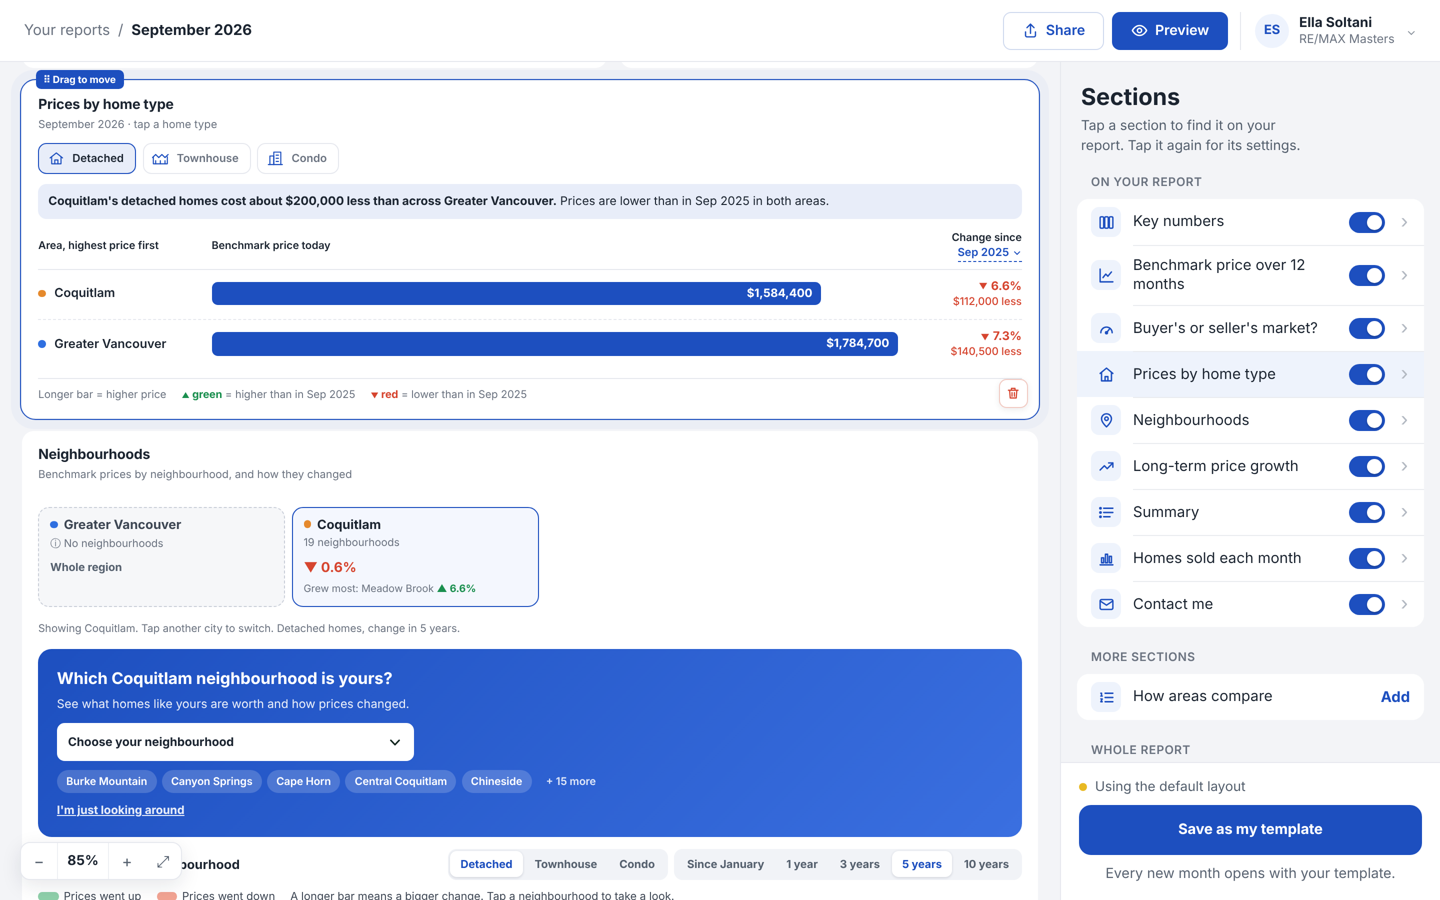
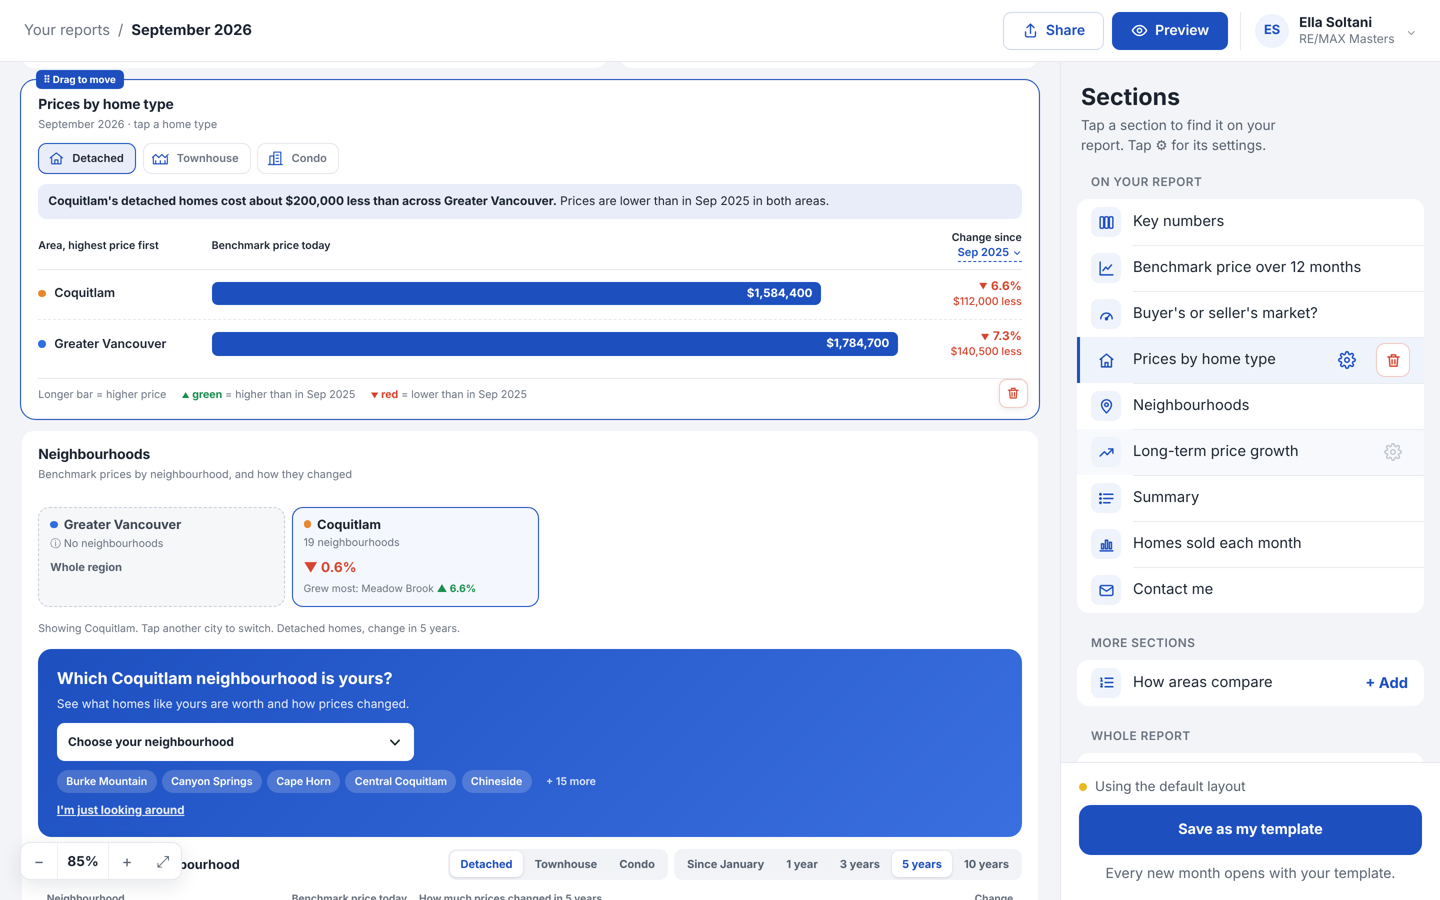
D6 Sections panel: tap to pick, gear and bin only on the picked row, settings open under it
Claude-Session: https://claude.ai/code/session_01GAE8No9vXW39qViYX3Zjiy

diff --git a/public/js/app.js b/public/js/app.js
@@ -332,7 +332,8 @@ const SIC = {
 const sic = (k) => `<span class="ipi" aria-hidden="true"><svg viewBox="0 0 24 24" width="17" height="17" fill="none" stroke="currentColor" stroke-width="2" stroke-linecap="round" stroke-linejoin="round">${SIC[k] || ''}</svg></span>`;
 const TYPE_NAME = { detached: 'Detached', townhome: 'Townhouse', condo: 'Condo' };
 const EYE = '<svg class="ico" width="17" height="17" viewBox="0 0 24 24" fill="none" stroke="currentColor" stroke-width="2" stroke-linecap="round" stroke-linejoin="round" aria-hidden="true"><path d="M2 12s3.5-7 10-7 10 7 10 7-3.5 7-10 7S2 12 2 12z"/><circle cx="12" cy="12" r="3"/></svg>';
-// Panel state: m 'list', 'section' (one section's settings page) or 'details'; k = the selected section.
+// Panel state: m 'list' or 'details'; k = the picked section; open = its settings are showing under its row (after tapping its gear).
+const GEAR = '<svg viewBox="0 0 24 24" width="18" height="18" fill="none" stroke="currentColor" stroke-width="2" stroke-linecap="round" stroke-linejoin="round" aria-hidden="true"><circle cx="12" cy="12" r="3"/><path d="M19.4 15a1.7 1.7 0 0 0 .3 1.8l.1.1a2 2 0 1 1-2.8 2.8l-.1-.1a1.7 1.7 0 0 0-1.8-.3 1.7 1.7 0 0 0-1 1.5V21a2 2 0 1 1-4 0v-.1a1.7 1.7 0 0 0-1.1-1.5 1.7 1.7 0 0 0-1.8.3l-.1.1a2 2 0 1 1-2.8-2.8l.1-.1a1.7 1.7 0 0 0 .3-1.8 1.7 1.7 0 0 0-1.5-1H3a2 2 0 1 1 0-4h.1a1.7 1.7 0 0 0 1.5-1.1 1.7 1.7 0 0 0-.3-1.8l-.1-.1a2 2 0 1 1 2.8-2.8l.1.1a1.7 1.7 0 0 0 1.8.3H9a1.7 1.7 0 0 0 1-1.5V3a2 2 0 1 1 4 0v.1a1.7 1.7 0 0 0 1 1.5 1.7 1.7 0 0 0 1.8-.3l.1-.1a2 2 0 1 1 2.8 2.8l-.1.1a1.7 1.7 0 0 0-.3 1.8V9a1.7 1.7 0 0 0 1.5 1H21a2 2 0 1 1 0 4h-.1a1.7 1.7 0 0 0-1.5 1z"/></svg>', BIN2 = '<svg viewBox="0 0 24 24" width="17" height="17" fill="none" stroke="currentColor" stroke-width="2" stroke-linecap="round" stroke-linejoin="round" aria-hidden="true"><path d="M4 7h16M10 11v6M14 11v6M6 7l1 13h10l1-13M9 7V4h6v3"/></svg>';
 let PS = { m: 'list', k: null }, ZOOM = 0.85, IGS = null;
 const cur = () => layoutOf(agent(), D);
 const snap = (L) => ({ sections: L.sections, known: SEC_IDS, areas: L.areas, agentTop: L.agentTop, clientAreas: L.clientAreas, view: L.view, conf: L.conf, months: L.months });
@@ -390,7 +391,7 @@ function preview() {
   const rp = $('#rp'); if (!rp) return;
   mountReport(rp, D, agent(), { embedded: true, ...(isPro() ? { edit: (patch) => setLayout(patch, false), selected: PS.k,
     // Clicking a section on the report opens its settings in the panel.
-    onSelect: (k) => { PS = { m: PS.m === 'section' && k ? 'section' : 'list', k: k || null }; drawPanel(); if (k && PS.m === 'list') panelTo(k); },
+    onSelect: (k) => { PS = { m: 'list', k: k || null, open: !!k && PS.open && PS.k === k }; drawPanel(); if (k) panelTo(k); },
     onAdd: showAddable, onRemove: (k) => removeSec(k) } : {}) });
   rp.style.zoom = ZOOM;
 }
@@ -481,7 +482,8 @@ function hoodsPanel(c, L) {
     <button type="button" class="btn wide ghost" data-plinks style="margin-top:8px">Personal links for clients</button>`;
 }
 // One section's settings page (the second tap), laid out like an iPhone settings page.
-function secPage(k, L) {
+// A section's settings, shown right under its row after its gear is tapped.
+function secSettings(k, L) {
   const c = L.conf[k] || {}, i = L.sections.indexOf(k), titled = !['numbers', 'contact'].includes(k), g = (label, body, foot) => `${label ? `<div class="ipl">${label}</div>` : ''}<div class="ipg">${body}</div>${foot ? `<p class="ipf">${foot}</p>` : ''}`;
   let what = '';
   if (k === 'hoods') what = g('', `<div class="ipad">${hoodsPanel(c, L)}</div>`);
@@ -493,9 +495,8 @@ function secPage(k, L) {
       + (USES_TYPES.includes(k) ? g('Home types', TYPE_KEYS.map((t) => { const on = !c.types || c.types.includes(t); return `<button type="button" class="ipr" data-ty="${t}" aria-pressed="${on}"><span class="ipn">${TYPE_NAME[t]}</span>${on ? '<span class="ipck" aria-hidden="true">✓</span>' : ''}</button>`; }).join('')) : ''); }
   const look = titled ? g('Title', `<label class="ipr"><input class="ipin" data-title value="${esc(c.title || '')}" placeholder="${esc(SEC[k].l)}" aria-label="Title"></label>${iptg('data-cf="sub"', 'Line under the title', c.sub !== false)}${k === 'market' ? iptg('data-cf="note"', 'One-line explanation', c.note !== false) : ''}`) : '';
   const size = PAIRABLE.includes(k) ? g('Size', `<div class="ipad"><div class="seg2"><button type="button" data-sz="half" aria-pressed="${c.size !== 'full'}">Half width</button><button type="button" data-sz="full" aria-pressed="${c.size === 'full'}">Full width</button></div></div>`, 'Half width sits next to another half-width section.') : '';
-  return `<button type="button" class="ipback" data-p="list">‹ Sections</button><h2 class="iph">${esc(c.title || SEC[k].l)}</h2><p class="ipsub">${esc(SEC[k].d)}. Updates by itself every month.</p>
-    ${what}${look}${size}${g('', `<button type="button" class="ipr ipb" data-mv="-1"${i ? '' : ' disabled'}>Move up</button><button type="button" class="ipr ipb" data-mv="1"${i < L.sections.length - 1 ? '' : ' disabled'}>Move down</button>`)}
-    ${g('', `<button type="button" class="ipr ipred" data-hide${L.sections.length > 1 ? '' : ' disabled'}>Remove from report</button>`)}`;
+  return `<div class="ipx">${what}${look}${size}${g('', `<button type="button" class="ipr ipb" data-mv="-1"${i ? '' : ' disabled'}>Move up</button><button type="button" class="ipr ipb" data-mv="1"${i < L.sections.length - 1 ? '' : ' disabled'}>Move down</button>`)}
+    <p class="ipf ipf0">Updates by itself every month.</p><button type="button" class="ipdone" data-done>Done</button></div>`;
 }
 // An iPhone-style switch row.
 const iptg = (attr, l, on) => `<label class="ipr"><span class="ipn">${l}</span><input type="checkbox" ${attr}${on ? ' checked' : ''}><span class="sw2" aria-hidden="true"></span></label>`;
@@ -525,15 +526,15 @@ function drawPanel() {
   } else if (!pro) {
     body = `${head('Sections')}<div class="lockbox"><span>With Pro you choose your areas and sections, move them around, and save your own template.</span><button type="button" class="btn sm" id="up4">Upgrade to Pro</button></div>`;
   } else {
-    if (PS.m === 'section' && !L.sections.includes(PS.k)) PS = { m: 'list', k: null };
+    if (!L.sections.includes(PS.k)) PS = { m: 'list', k: null, open: false };
     const off = SECTIONS.filter(([k]) => !L.sections.includes(k) && (k !== 'growth' || D.growth));
-    // First tap picks a section and scrolls the report to it; a second tap (or the ›) opens its settings page.
-    const row = (k) => { const nm = esc(L.conf[k]?.title || SEC[k].l);
-      return `<div class="ipr ipsec${PS.k === k ? ' sel' : ''}" draggable="true" data-sk="${k}" data-li="${k}" role="button" tabindex="0" title="Tap to find it on your report. Tap again for its settings. Drag to move it.">${sic(k)}<span class="ipn">${nm}</span>
-        <label class="swl" title="Show on your report"><input type="checkbox" data-on="${k}" checked${L.sections.length > 1 ? '' : ' disabled'} aria-label="Show ${nm} on your report"><span class="sw2" aria-hidden="true"></span></label><button type="button" class="ipgo" data-go2="${k}" aria-label="Settings for ${nm}">›</button></div>`; };
-    body = PS.m === 'section' ? secPage(PS.k, L) : `<h2 class="iph">Sections</h2><p class="ipsub">Tap a section to find it on your report. Tap it again for its settings.</p>
+    // Tap a row: it is picked and the report scrolls to it. Only the picked row shows its gear (settings) and bin (take it off).
+    const row = (k) => { const nm = esc(L.conf[k]?.title || SEC[k].l), sel = PS.k === k, open = sel && PS.open;
+      return `<div class="ipr ipsec${sel ? ' sel' : ''}${open ? ' open' : ''}" draggable="true" data-sk="${k}" data-li="${k}" role="button" tabindex="0" title="Tap to find it on your report. Drag to move it.">${sic(k)}<span class="ipn">${nm}</span>
+        <button type="button" class="ipgear" data-gear="${k}" aria-pressed="${open}" aria-label="Settings for ${nm}" title="Settings">${GEAR}</button>${sel ? `<button type="button" class="ipbin" data-bin2="${k}"${L.sections.length > 1 ? '' : ' disabled'} aria-label="Take ${nm} off your report" title="Take it off your report">${BIN2}</button>` : ''}</div>${open ? secSettings(k, L) : ''}`; };
+    body = `<h2 class="iph">Sections</h2><p class="ipsub">Tap a section to find it on your report. Tap ⚙ for its settings.</p>
       <div class="ipl">On your report</div><div class="ipg">${L.sections.map(row).join('')}</div>
-      ${off.length ? `<div class="ipl" id="canadd">More sections</div><div class="ipg">${off.map(([k, l]) => `<div class="ipr" data-li="${k}">${sic(k)}<span class="ipn">${esc(l)}</span><button type="button" class="ipadd" data-addk="${k}">Add</button></div>`).join('')}</div>` : ''}
+      ${off.length ? `<div class="ipl" id="canadd">More sections</div><div class="ipg">${off.map(([k, l]) => `<div class="ipr" data-li="${k}">${sic(k)}<span class="ipn">${esc(l)}</span><button type="button" class="ipadd" data-addk="${k}">+ Add</button></div>`).join('')}</div>` : ''}
       <div class="ipl">Whole report</div><div class="ipg">${L.areas.length > 1 ? `<div class="ipad"><span class="ipn">When clients open it, show</span><div class="seg2"><button type="button" data-vw="side" aria-pressed="${L.view === 'side'}">All areas</button><button type="button" data-vw="one" aria-pressed="${L.view === 'one'}">The first area</button></div></div>` : ''}
       ${iptg('data-lt="agentTop"', 'My name and photo at the top', L.agentTop)}${iptg('data-lt="clientAreas"', 'Clients can add or remove areas', L.clientAreas)}</div>
       ${monthsPanel(L.months)}`;
@@ -546,9 +547,10 @@ function drawPanel() {
   const pb = el.querySelector('.pbody'); if (pb) pb.scrollTop = PS.m === LASTM ? keep : 0; LASTM = PS.m;
   if (PS.m === 'details') thumbs();
 }
-// First tap: pick the section and scroll the report to it. Second tap on the same row: its settings page.
-function tapRow(k) { if (PS.m === 'list' && PS.k === k) return openPage(k); PS = { m: 'list', k }; selectSec(k, true); }
-function openPage(k) { PS = { m: 'section', k }; drawPanel(); selectSec(k, true); }
+// Tap a row: pick the section and scroll the report to it.
+function tapRow(k) { if (PS.k !== k) { PS = { m: 'list', k, open: false }; drawPanel(); } selectSec(k, true); }
+// The gear opens (or closes) the settings under that row.
+function gear(k) { const open = !(PS.k === k && PS.open); PS = { m: 'list', k, open }; drawPanel(); selectSec(k, true); if (open) requestAnimationFrame(() => { const pb = $('#dpanel .pbody'), r = $(`#dpanel [data-li="${k}"]`); if (pb && r) pb.scrollBy({ top: r.getBoundingClientRect().top - pb.getBoundingClientRect().top - 12, behavior: calm() ? 'auto' : 'smooth' }); }); }
 // One set of listeners for the panel, whatever it is showing.
 function wirePanel() {
   const el = $('#dpanel'); if (!el || el._w) return; el._w = 1;
@@ -558,7 +560,9 @@ function wirePanel() {
     if (!b) { const h = t.closest('.ipsec[data-sk]'); if (h && !t.closest('label')) tapRow(h.dataset.sk); return; }
     if (b.disabled) return; const d = b.dataset, L = cur(), k = PS.k;
     if (d.p) { PS = { m: d.p, k: PS.k }; drawPanel(); if (d.p === 'list' && PS.k) panelTo(PS.k); return; }
-    if (d.go2) return openPage(d.go2);
+    if (d.gear) return gear(d.gear);
+    if (d.bin2) return removeSec(d.bin2);
+    if ('done' in d) { PS.open = false; drawPanel(); return panelTo(PS.k); }
     if (d.addk) return addSec(d.addk);
     if (d.sz) return setConf(k, { size: d.sz === 'full' ? 'full' : undefined });
     if ('mback' in d) return setLayout({ months: { ...L.months, back: +d.mback } }, false);

diff --git a/public/css/site.css b/public/css/site.css
@@ -430,9 +430,7 @@ body.oncreate>.nav{display:none}
 .ip .ipsec.dragging{opacity:.4}.ip .ipsec.over{box-shadow:inset 0 3px 0 #1d4fbf}
 .ip .ipi{width:30px;height:30px;border-radius:8px;background:#eef3fc;color:#1d4fbf;display:grid;place-items:center;flex:none}
 .ip .ipn{flex:1;min-width:0;line-height:1.3;padding:11px 0}
-.ip .ipgo{border:0;background:none;color:#b3b9c2;font-size:1.35rem;line-height:1;padding:8px 2px 10px 4px;cursor:pointer;flex:none}
-.ip .ipgo:hover{color:#1d4fbf}
-.ip .ipadd{border:0;background:none;color:#1d4fbf;font:inherit;font-weight:650;cursor:pointer;padding:8px 0}
+.ip .ipadd{border:0;background:none;color:#1d4fbf;font:inherit;font-weight:650;cursor:pointer;padding:8px 2px;white-space:nowrap}
 .ip .ipck{color:#1d4fbf;font-weight:700}
 .ip .ipb{color:#1d4fbf}.ip .ipb:disabled{color:#b3b9c2;cursor:default}
 .ip .ipred{color:#d6452f;justify-content:center;font-weight:600}.ip .ipred:disabled{color:#e8a99f;cursor:default}
@@ -441,13 +439,26 @@ body.oncreate>.nav{display:none}
 .ip .ipad .ipn{display:block;padding:2px 0 8px}
 .ip .ipad .seg2{margin:0}
 .ip .ipad .chips2{margin-top:10px}
-.ip .ipback{border:0;background:none;color:#1d4fbf;font:inherit;font-size:.95rem;font-weight:500;padding:0;margin:0 0 10px;cursor:pointer;align-self:flex-start;text-transform:none;letter-spacing:0}
 .ip .ipr input[type=checkbox]{position:absolute;opacity:0;width:1px;height:1px}
 .ip .ipr input:checked+.sw2,.ip .swl input:checked+.sw2{background:#1d4fbf}
 .ip .ipr input:checked+.sw2::after{transform:translateX(15px)}
 .ip .sw2{flex:none}
 .ip .ipr.pulse{animation:srpulse 1.4s ease-out}
 @keyframes srpulse{0%{box-shadow:inset 0 0 0 2px rgba(29,79,191,.6)}100%{box-shadow:inset 0 0 0 2px rgba(29,79,191,0)}}
+.ip .ipgear,.ip .ipbin{flex:none;width:34px;height:34px;border-radius:9px;display:grid;place-items:center;border:0;background:none;cursor:pointer;padding:0}
+.ip .ipgear{color:#c3c8d0;visibility:hidden}
+.ip .ipsec:hover .ipgear,.ip .ipsec:focus-within .ipgear{visibility:visible}
+.ip .ipsec.sel .ipgear{visibility:visible;color:#1d4fbf}
+.ip .ipsec .ipgear:hover{background:#eef3fc;color:#1d4fbf}
+.ip .ipsec.open .ipgear{background:#1d4fbf;color:#fff}
+.ip .ipbin{border:1px solid #f1c9c1;color:#d6452f;background:#fff}
+.ip .ipbin:hover{background:#fdf0ed;border-color:#d6452f}.ip .ipbin:disabled{opacity:.4;cursor:default}
+.ip .ipsec.sel{box-shadow:inset 3px 0 0 #1d4fbf}
+.ip .ipx{background:#f7f9fc;border-top:1px solid #dbe4f6;border-bottom:1px solid #dbe4f6;padding:14px 12px 10px;display:flex;flex-direction:column;animation:srb .2s ease-out}
+.ip .ipx .ipg{box-shadow:0 0 0 1px #e9ebef}
+.ip .ipdone{align-self:center;border:0;background:none;color:#1d4fbf;font:inherit;font-weight:650;font-size:.92rem;padding:6px 16px;cursor:pointer}
+@keyframes srb{from{opacity:0;transform:translateY(-6px)}to{opacity:1;transform:none}}
+@media (prefers-reduced-motion:reduce){.ip .ipx{animation:none}}
 /* Neighbourhoods settings sit inside one white card */
 .ip .ipad .lbl2{color:#1b2430}
 .ip .ipad .grp3{display:flex;align-items:center;gap:8px;font-size:.72rem;font-weight:700;color:#6b7380;text-transform:uppercase;letter-spacing:.04em;margin:16px 0 4px}

diff --git a/HANDOFF.md b/HANDOFF.md
@@ -180,7 +180,7 @@ The maps are in `docs/`: `map-dashboard.png` and `map-report.png`.
 | D3 Me menu | Your details, account and billing, your reports, log out | `app.js → meMenu()` |
 | D4 Report canvas | The report you edit (drag, bin, select) | `board.js → mountReport()` in edit mode |
 | D5 Zoom | − 85% + and fit | `app.js → wireZoom()` |
-| D6 Sections panel | iPhone-style grouped list: icon, name, switch, › for each section; first tap picks it and scrolls the report to it, second tap (or ›) opens its settings page with ‹ Sections; More sections (Add); Whole report; Your details (`docs/d6-sections-ui.png`) | `app.js → drawPanel()`, `secPage()`, `tapRow()`, `wirePanel()`, `hoodsPanel()`, `addSec()`, `removeSec()` |
+| D6 Sections panel | iPhone-style grouped list: icon and name for each section. Tapping a row picks it and scrolls the report to it; only the picked row shows ⚙ (settings open right under the row, with Done) and a bin (take it off the report). More sections have "+ Add". Whole report; Your details (`docs/d6-sections-ui.png`) | `app.js → drawPanel()`, `secSettings()`, `tapRow()`, `gear()`, `wirePanel()`, `hoodsPanel()`, `addSec()`, `removeSec()` |
 | D7 Template bar | "Save as my template", "Back to the default layout" | `app.js → drawPanel()` footer `.pfoot` |
 | D8 Preview window | Post / Story / PDF preview, what's on the image, caption, post to Instagram | `app.js → openPreview()`, `social2.js` |
 | D9 Client activity | Opens from Share (was "Personal links window"): each client's link, how active they are, opens, reading time, sections, what they looked at, one client's details, the Monday email switch (`docs/activity-ui.png`) | `app.js → personalLinks()`, `activity.js` |
@@ -243,6 +243,7 @@ Add one line per decision (newest first), so later chats know what was decided a
 | 2026-10-15 | D9 Client activity, E1 Monday email | **Built** from `docs/activity-ui.png` (approved). Personal links window renamed Client activity. Per client: Very active (opened 3+ times this week, or twice with 5+ minutes) / Some interest (opened in 30 days) / Quiet lately / Not opened yet; opens, last open, reading time, read to the end, most-looked-at neighbourhood or month. Last 30 days / Last 7 days / All time. Tap a client: visits per week (8 weeks), time per section, last 5 visits in plain words, "Why it matters" (facts only, no guessing), Send them a note, Copy their link. General link: totals only. Monday email lists very active clients first and names links never opened. Reading time counts only while the page is on screen and the client did something in the last 2 minutes. Visits older than 400 days are removed every Monday. |
 | 2026-10-15 | S5 Neighbourhoods | Removed the key line above the list ("Prices went up · Prices went down · A longer bar…"). The column titles stay. |
 | 2026-10-15 | S1 Key numbers | With several areas, the change is the last column in all three cards so they line up: Homes sold is now Area · Sold · Days to sell · Change since Sep 2025 ⌄. |
+| 2026-10-15 | D6 Sections panel | **Built and pushed (option A):** Ella wanted settings to open only on purpose and under the row, not as a second tap, and fewer controls. Rows are just icon and name (switches and › removed). Tapping a row highlights it (light blue, blue left edge) and scrolls the report to it. Only the picked row shows a blue ⚙ and a red-outlined bin (same bin as on the report); on a computer a faint ⚙ shows on the row under the mouse. ⚙ opens the settings right under that row (Areas, Home types, Title, Size, Move up/down, Done); one open at a time. More sections: "+ Add". Tried and dropped: settings sliding up from the bottom of the panel, a gear on every row (too many), − and + circles (− looks like a browser's minimize), and checkmark circles (busier). |
 | 2026-10-15 | D6 Sections panel | **Simplified and pushed (Ella: the picture rows were too much):** like iPhone Settings. Grouped white lists on grey; each row is a small blue icon, the name, a switch and ›. No pictures, numbers or descriptions. **First tap** picks the section (light blue) and scrolls the report to it; **second tap** (or ›) slides to its settings page with "‹ Sections" (Areas, Home types as a checklist, Title, Size, Move up / Move down, red "Remove from report"). On the report, the number and name tags are gone: back to "⠿ Drag to move" on hover and on the picked section. Kept: slide out / slide in when removing or adding, no page jump, Undo. UI: `docs/d6-sections-ui.png`. |
 | 2026-10-15 | D6 Sections panel | **Built, then replaced the same day (see above):** each row has a small picture of the section and a number; the same number and name sit on a tag at the top of the section on the report (the tag is also the drag handle). Tapping a row opens its settings right under it (What it shows / How it looks / Up, Down, Remove), replacing the separate Edit screen with Data and Settings tabs; tapping a section on the report opens its row too. Opening a row scrolls the report so that section sits just under the top bar, with a soft blue glow. Removing (switch, Remove, or the bin) no longer makes the page jump: if the section is off screen the report glides to it, it slides out to the right and the gap closes, with an Undo message. Adding (+ Add under "You can add", or "+ Add a section" on the report) glides to the new section, which slides in from the left. Report options moved into a "Whole report" box. Panel is 410px wide. Tried and not chosen: a numbered list with icons (A), a small page map of the report (C), and settings in a pop-out card. UI: `docs/d6-sections-ui.png`. Pushed to GitHub at Ella's request. |
 | 2026-10-15 | S1 Key numbers | **Fixed:** with several areas, the Homes sold card's "Change" column now has the "since Sep 2025 ⌄" menu too (all three cards have it). "since …" sits on its own line under "Change" so the Homes sold table fits a phone. |

diff --git a/ARCHITECTURE.md b/ARCHITECTURE.md
@@ -308,7 +308,7 @@ Cleaned on the server by `util.cleanShow()` and on the client by `board.layoutOf
   - `HIST`: the exports history
   - `ZOOM`
 - **Layout:** top bar (`drawTop`), report canvas `#rp` (`preview()` → `mountReport` with `edit`), right panel `#dpanel` (`drawPanel()` + `wirePanel()`, event delegation, set up once).
-- **Sections panel (D6):** like iPhone Settings. `PS = {m: 'list' | 'section' | 'details', k}`. List rows are `.ipsec[data-sk][data-li]` with `SIC[k]` icons; `tapRow(k)`: first tap selects and scrolls the report (`toSec`), second tap `openPage(k)` shows `secPage(k)` (styles `.ip …` in `site.css`). **Add and remove only through `addSec(k)` and `removeSec(k)`:** they animate, and `holdPlace(fn)` redraws the report without the page jumping. `panelTo(k)` scrolls only the panel. `drawPanel()` keeps the panel's scroll position within the same page.
+- **Sections panel (D6):** like iPhone Settings. `PS = {m: 'list' | 'details', k, open}`. Rows are `.ipsec[data-sk][data-li]` with `SIC[k]` icons. `tapRow(k)` picks a section and scrolls the report (`toSec`); only the picked row shows `[data-gear]` and `[data-bin2]`. `gear(k)` toggles `secSettings(k)` right under the row (`.ipx`, closed by `[data-done]`). Styles are `.ip …` in `site.css`. **Add and remove only through `addSec(k)` and `removeSec(k)`:** they animate, and `holdPlace(fn)` redraws the report without the page jumping. `panelTo(k)` scrolls only the panel.
 - **Saving:** `touch(key)` marks a field as changed. `saveNow()` sends a debounced POST to `/api/me`. Layout changes always go through `setLayout(patch)` or `setConf(sectionId, patch)`.
 - **Share menu:** `shareDrop()`. It opens copy link, email, QR, Personal links (`personalLinks()`), and `openPreview(kind)` for Post, Story and PDF with toggles for "what's on the image", an editable caption, Download, Post to Instagram (`confirmPost`) and Send to my phone (QR).
 - **Demo mode:** `cfg.demo`. Exports and personal links are kept in `localStorage` (`mup_demo_exports`, `mup_demo_plinks`).
